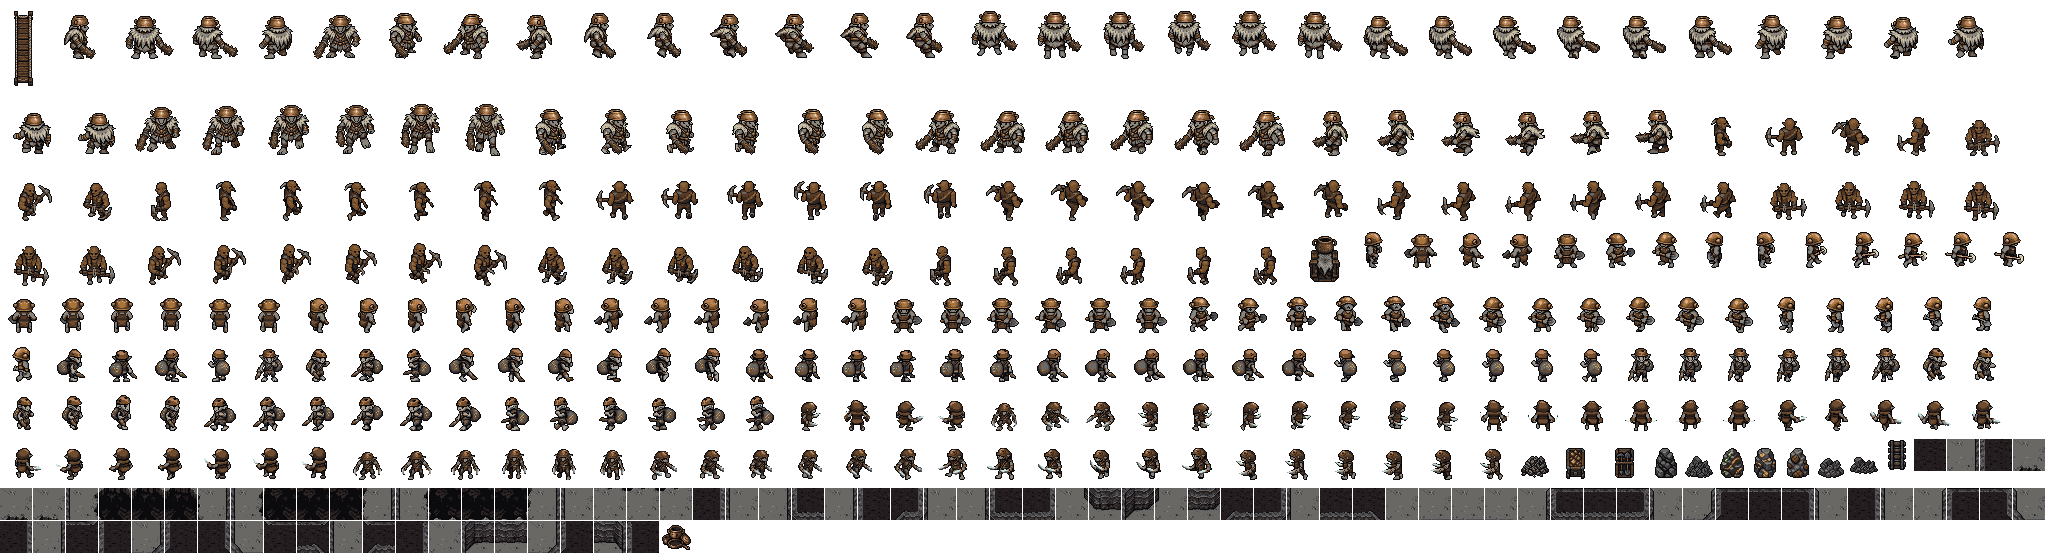
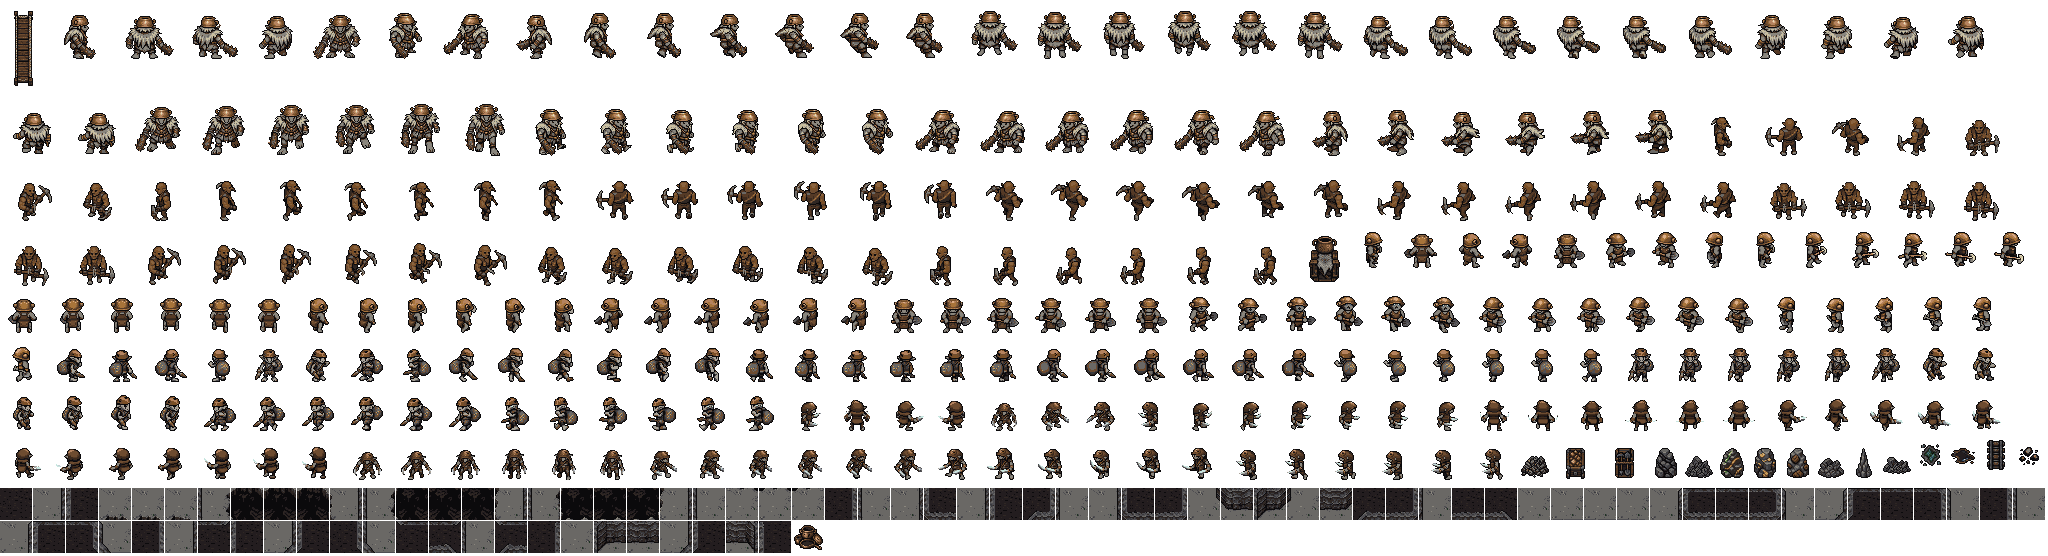
wip(hunts): edge scatter, cave floor props, bag guides, salvage fix, handoff

Changed region(s): [[0.0, 0.7644, 1.0, 1.0]]

diff --git a/src/data/world/maps/coppercap_warrens.js b/src/data/world/maps/coppercap_warrens.js
@@ -98,6 +98,16 @@ export default Object.freeze({
     { id: 'corner_rubble', x: 26, y: 26 }, { id: 'mushrooms', x: 31, y: 34 }, { id: 'exposed_dirt', x: 33, y: 31 },
     /* P5 the Chief's Hall: the cart at the ramp foot, his throne between the gold */
     { id: 'cw_mine_cart', x: 6, y: 26 }, { id: 'cw_throne', x: 2, y: 32 }, { id: 'cw_copper_pots', x: 12, y: 27 }, { id: 'bones', x: 6, y: 36 },
+    /* the floor scatter: stalagmites and spoil along the walls */
+    { id: 'sack_pile', x: 51, y: 3 }, { id: 'cw_stalagmite', x: 36, y: 5 }, { id: 'cw_stalagmite', x: 54, y: 5 }, { id: 'cw_stalagmite', x: 11, y: 6 },
+    { id: 'cw_stalagmite', x: 31, y: 8 }, { id: 'cw_stalagmite', x: 26, y: 11 }, { id: 'cw_stalagmite', x: 7, y: 12 }, { id: 'cw_stalagmite', x: 56, y: 15 },
+    { id: 'cw_stalagmite', x: 47, y: 25 }, { id: 'cw_stalagmite', x: 11, y: 26 }, { id: 'cw_stalagmite', x: 14, y: 29 }, { id: 'cw_stalagmite', x: 31, y: 29 },
+    { id: 'sack_pile', x: 48, y: 30 }, { id: 'cw_stalagmite', x: 14, y: 34 }, { id: 'sack_pile', x: 35, y: 35 }, { id: 'cw_stalagmite', x: 9, y: 36 },
+    { id: 'cw_stalagmite', x: 28, y: 36 }, { id: 'cw_stalagmite', x: 32, y: 36 },
+    /* the floor scatter: rubble, seep puddles and copper stains */
+    { id: 'cw_rubble', x: 9, y: 7 }, { id: 'cw_puddle', x: 19, y: 10 }, { id: 'cw_puddle', x: 37, y: 12 }, { id: 'cw_puddle', x: 49, y: 12 },
+    { id: 'cw_puddle', x: 52, y: 15 }, { id: 'cw_ore_stain', x: 49, y: 17 }, { id: 'cw_rubble', x: 56, y: 17 }, { id: 'cw_puddle', x: 52, y: 27 },
+    { id: 'cw_ore_stain', x: 13, y: 29 }, { id: 'cw_puddle', x: 34, y: 29 }, { id: 'cw_rubble', x: 6, y: 34 }, { id: 'cw_ore_stain', x: 50, y: 36 },
   ]),
   buildings: Object.freeze([]),
   path: Object.freeze([[27, 9], [31, 9], [31, 11], [27, 11]]),
@@ -112,5 +122,5 @@ export default Object.freeze({
   stations: Object.freeze({}),
   exits: Object.freeze([{ x: 9, y: 0, to: 'town_common' }]),
   start: Object.freeze([9, 1]),
-  maskHash: '41807174',
+  maskHash: 'cdf4eb8a',
 });

diff --git a/src/data/world/maps/meadowbrook_thicket.js b/src/data/world/maps/meadowbrook_thicket.js
@@ -97,6 +97,18 @@ export default Object.freeze({
     /* P5 Fern Hollow */
     { id: 'mb_fern', x: 6, y: 28 }, { id: 'mb_fern', x: 18, y: 30 }, { id: 'mb_fern', x: 14, y: 37 }, { id: 'mushrooms', x: 5, y: 34 },
     { id: 'mb_fallen_log', x: 16, y: 28 }, { id: 'mb_flowers', x: 12, y: 36 },
+    /* the edge scatter: trees and undergrowth along the thicket */
+    { id: 'bush', x: 14, y: 1 }, { id: 'bush', x: 18, y: 1 }, { id: 'bush', x: 9, y: 2 }, { id: 'pine', x: 46, y: 2 },
+    { id: 'bush', x: 20, y: 7 }, { id: 'rocks', x: 38, y: 7 }, { id: 'pine', x: 57, y: 9 }, { id: 'bush', x: 42, y: 11 },
+    { id: 'oak', x: 45, y: 11 }, { id: 'rocks', x: 50, y: 15 }, { id: 'rocks', x: 20, y: 17 }, { id: 'pine', x: 36, y: 20 },
+    { id: 'oak', x: 57, y: 21 }, { id: 'rocks', x: 45, y: 24 }, { id: 'bush', x: 6, y: 27 }, { id: 'rocks', x: 16, y: 27 },
+    { id: 'pine', x: 44, y: 28 }, { id: 'oak', x: 52, y: 28 }, { id: 'pine', x: 38, y: 34 }, { id: 'rocks', x: 10, y: 37 },
+    { id: 'oak', x: 45, y: 37 }, { id: 'rocks', x: 15, y: 38 }, { id: 'bush', x: 51, y: 38 },
+    /* the edge scatter: flowers, leaves and ferns in the grass */
+    { id: 'mb_flowers', x: 53, y: 2 }, { id: 'mb_flowers', x: 21, y: 3 }, { id: 'mb_flowers', x: 41, y: 3 }, { id: 'mb_leaf_litter', x: 46, y: 5 },
+    { id: 'mb_leaf_litter', x: 55, y: 6 }, { id: 'mb_flowers', x: 9, y: 7 }, { id: 'mb_fern', x: 44, y: 10 }, { id: 'mb_fern', x: 49, y: 17 },
+    { id: 'mb_fern', x: 38, y: 20 }, { id: 'mb_fern', x: 50, y: 20 }, { id: 'mb_flowers', x: 7, y: 21 }, { id: 'mb_flowers', x: 6, y: 34 },
+    { id: 'mb_fern', x: 50, y: 36 }, { id: 'mb_flowers', x: 52, y: 37 },
   ]),
   buildings: Object.freeze([]),
   path: Object.freeze([[7, 17], [11, 17], [11, 21], [7, 21]]),
@@ -111,5 +123,5 @@ export default Object.freeze({
   stations: Object.freeze({}),
   exits: Object.freeze([{ x: 0, y: 19, to: 'town_common' }]),
   start: Object.freeze([1, 19]),
-  maskHash: '23eb55a7',
+  maskHash: '7244ac16',
 });

diff --git a/.claude/coordination/HANDOFFS.md b/.claude/coordination/HANDOFFS.md
@@ -3351,3 +3351,20 @@ art/world/sewer/ -> atlas-sewer from the PixelLab kit (docs/design/PIXELLAB_STYL
 b342fc89 (floor/wall), water e0c9621c, wall torch 55753820, rat nest bde80354, bones 2e4f8622, bridge 61da1673,
 barrels 5e8f62c3, moss decal 3ae7a8a6. Then swap only `ground` and object ids in the map row (never the grid,
 L-HASH pins it). Walk art per monster: src/data/monster-art.js HUNT_WALK_ART -> prototypes/hunt-sim-assets.
+
+## 2026-10-18 · game-designer -> systems-engineer + backend (gathering, density) · two new walked grounds (lane/hunts-forest-cave)
+meadowbrook_thicket (wood, band 5-15, 2 seats) and coppercap_warrens (ore, band 32-50, 4 seats) ship as data in
+src/data/hunt-grounds.js. INERT until the engine reads them; today's engine spawns each pocket's `spawns` only.
+(1) DENSITY SLIDER: `density {solo, perHero, max:8}`; the level IS the pull size. densityCapFor(ground, n) is the
+cap; packAt(ground, p, L) is the pack (pocket.pack[0..L), 8 rows on the ring round `pocket.pull`; the tank stands
+on `pull`, 3x3 clear, guarded). spawnPack must read packAt, and the settle's kill bound (gen-hunt-sessions
+hr_hunt_ground_spawns counts `p.spawns`) must count the FULL pack or a level-8 pull is refused.
+(2) GATHER SLIDER: `gather {refKillMs, shares:[0,250,500,750] permille, nodes:[{id,node,x,y,pocket}]}`;
+gatherNodesOf(ground) resolves GROUND_NODE_KINDS {skill, tier, tool:{skill, required:false}, charges, respawnMs,
+sprite, spent}. Spec gap = refKillMs x s/(1-s); node req/xp/ms/product stay in gathering.js. The node tiles are
+props on the map (they block a step client-side; the server grid ignores props, hunt-ground.js open item).
+(3) Monsters cannot shoot: the workbook's Goblin Archer waits on monster ranged attacks (shipped as a melee Skulker).
+(4) Regens for the integrator: gen-hunts, gen-hunt-sessions (grounds + kill bounds, the cellar's new Hive Wasp),
+gen-catalogues (10 monsters; hunterAll 119 -> 129 in SQL), then pack-edge (the edge imports the maps and grounds).
+(5) terrain.js OPEN_CLASSES gains 'span': the Sewer's grate bridge was sealing its own 1-tile choke in the client
+mask (sewer maskHash ad6e51f5 -> cb4d8232); the server grid never saw props, so no server behaviour moved.
